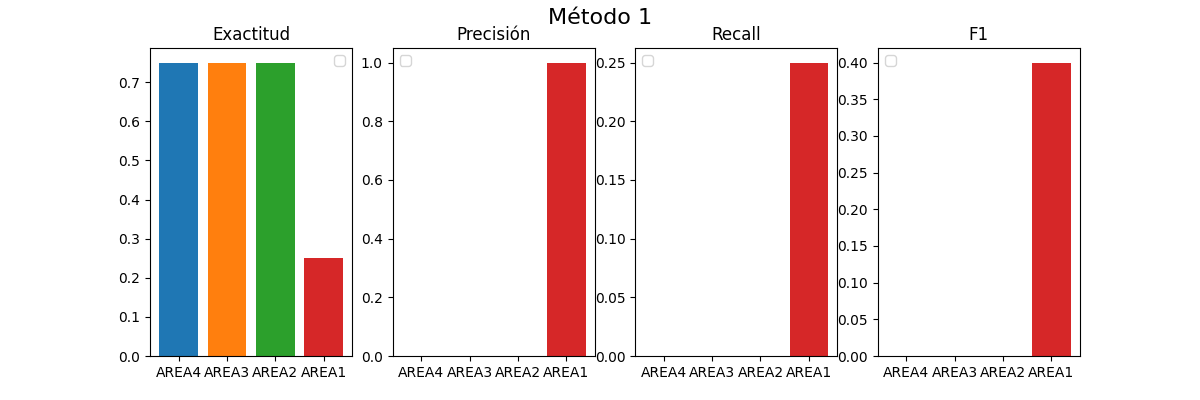
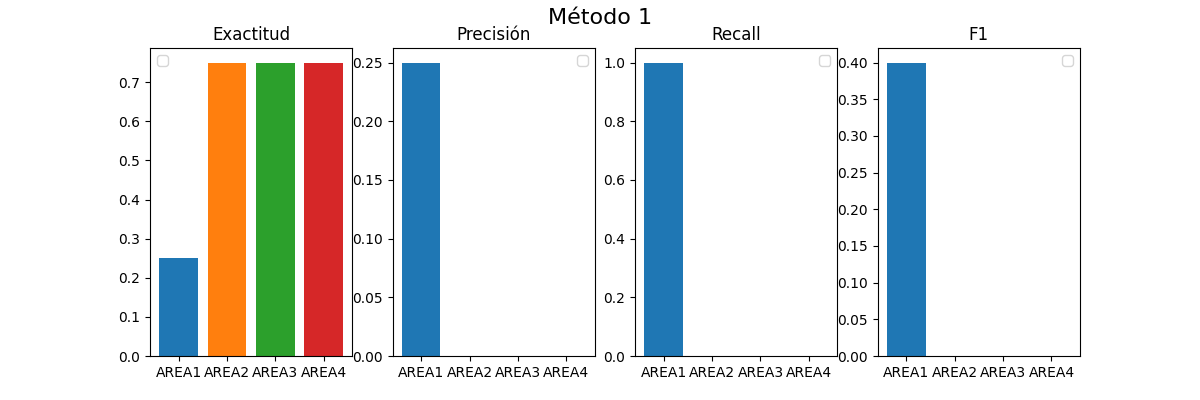
Se elinan archivos incesarios

diff --git a/src/metrics.py b/src/metrics.py
@@ -69,33 +69,35 @@ def calcularMetricas(resultados,num_modelo,metricas_modelo):
     etiquetados_incorrectos={area:0 for area in resultados.keys()}
     etiquetados_correctos={area:0 for area in resultados.keys()}
     total=0
-    correctos=0
+    correctos_global=0
     for area in resultados.keys():
         for etiqueta in resultados[area]:
             total+=1
             if etiqueta[num_modelo]==area:
+                # Verdadero positivo
                 etiquetados_correctos[area]+=1
-                correctos+=1
+                correctos_global+=1
             else:
+                # Falso negativo
                 etiquetados_incorrectos[etiqueta[num_modelo]]+=1
-    metricas_modelo[str(num_modelo)]=correctos/total
-    print(f"correctos: {correctos} incorrectos: {total-correctos}")
-    print(f"Exactitud {correctos/(total)}")
+    metricas_modelo[str(num_modelo)]=correctos_global/total
+    print(f"correctos: {correctos_global} incorrectos: {total-correctos_global}")
+    print(f"Exactitud {correctos_global/(total)}")
     for area in resultados.keys():
         # NUMERO DE DOCUMENTOS REALES DE ESA ETIQUETA
-        num_docs=len(resultados[area])
+        num_docs=len(resultados[area]) #Verdadero positivo + Falso negativo
         # NUMERO DE DOCUMENTOS ETIQUETADOS CON ESTA ETIQUETA
-        num_etiquetados=etiquetados_correctos[area]+etiquetados_incorrectos[area]
+        num_etiquetados=etiquetados_correctos[area]+etiquetados_incorrectos[area] #verdaderos positivos + Falsos positivos
         # NÚMERO DE DOCUMENTOS DE OTRA ETIQETA NO ETIQUETADOS
-        no_etiquetados_correctos=total-num_docs-etiquetados_incorrectos[area]
+        no_etiquetados_correctos=total-num_docs-etiquetados_incorrectos[area] # verdadero negativos
         # Métricas
         exactitud=(etiquetados_correctos[area]+no_etiquetados_correctos)/(total)
-        precision=(etiquetados_correctos[area]/num_docs)
+        recall=(etiquetados_correctos[area]/num_docs)
         if num_etiquetados>0:
-            recall=(etiquetados_correctos[area]/num_etiquetados)
+            precision=(etiquetados_correctos[area]/num_etiquetados)
             f1=2*(precision*recall)/(precision+recall)
         else:
-            recall=0.0
+            precision=0.0
             f1=0.0
         metricas[area]=(exactitud,precision,recall,f1)
         print(area)

diff --git a/src/ModelBayes.py b/src/ModelBayes.py
@@ -2,7 +2,6 @@ import pandas as pd
 import os
 from Preprocess import Preprocess
 from TextExtractor import TextExtractor
-from sklearn.datasets import fetch_20newsgroups
 from sklearn.feature_extraction.text import TfidfVectorizer
 from sklearn.naive_bayes import MultinomialNB
 from sklearn.pipeline import make_pipeline

diff --git a/src/Preprocess.py b/src/Preprocess.py
@@ -1,7 +1,8 @@
 from nltk.stem.snowball import SnowballStemmer
 from nltk.corpus import stopwords
 import json
-
+import nltk
+nltk.download('stopwords')
 class Preprocess:
     ''' Esta clase se encarga de realizar el conteo de las palabras,
     realiza la radicalización (stemming) y filtra las stopwords

diff --git a/src/App.py b/src/App.py
@@ -1,4 +1,3 @@
-from CliUI import CliUI
 from ModelConjuntos import ModelConjuntos
 from Model import Model
 from ModelBayes import ModelBayes
